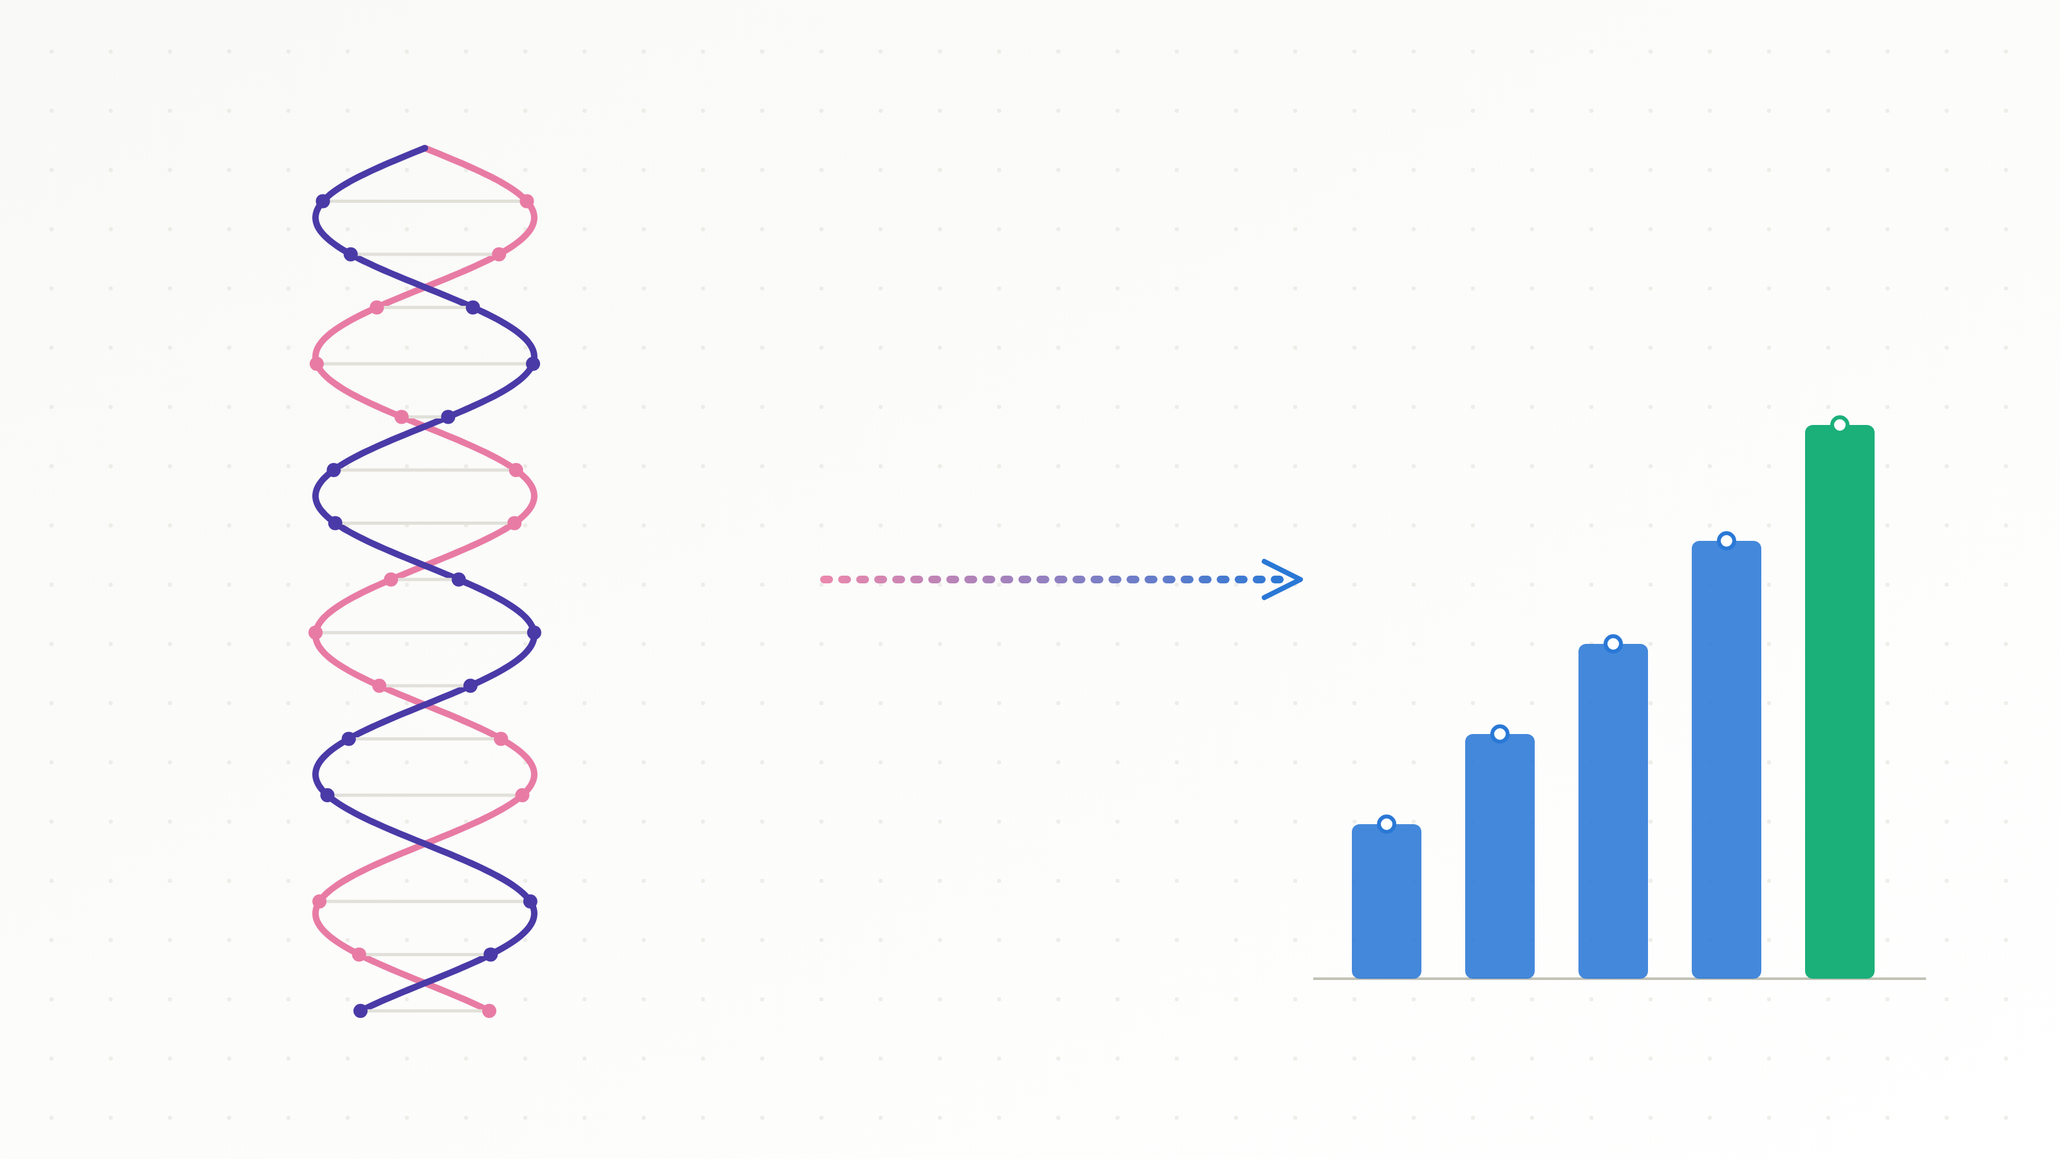
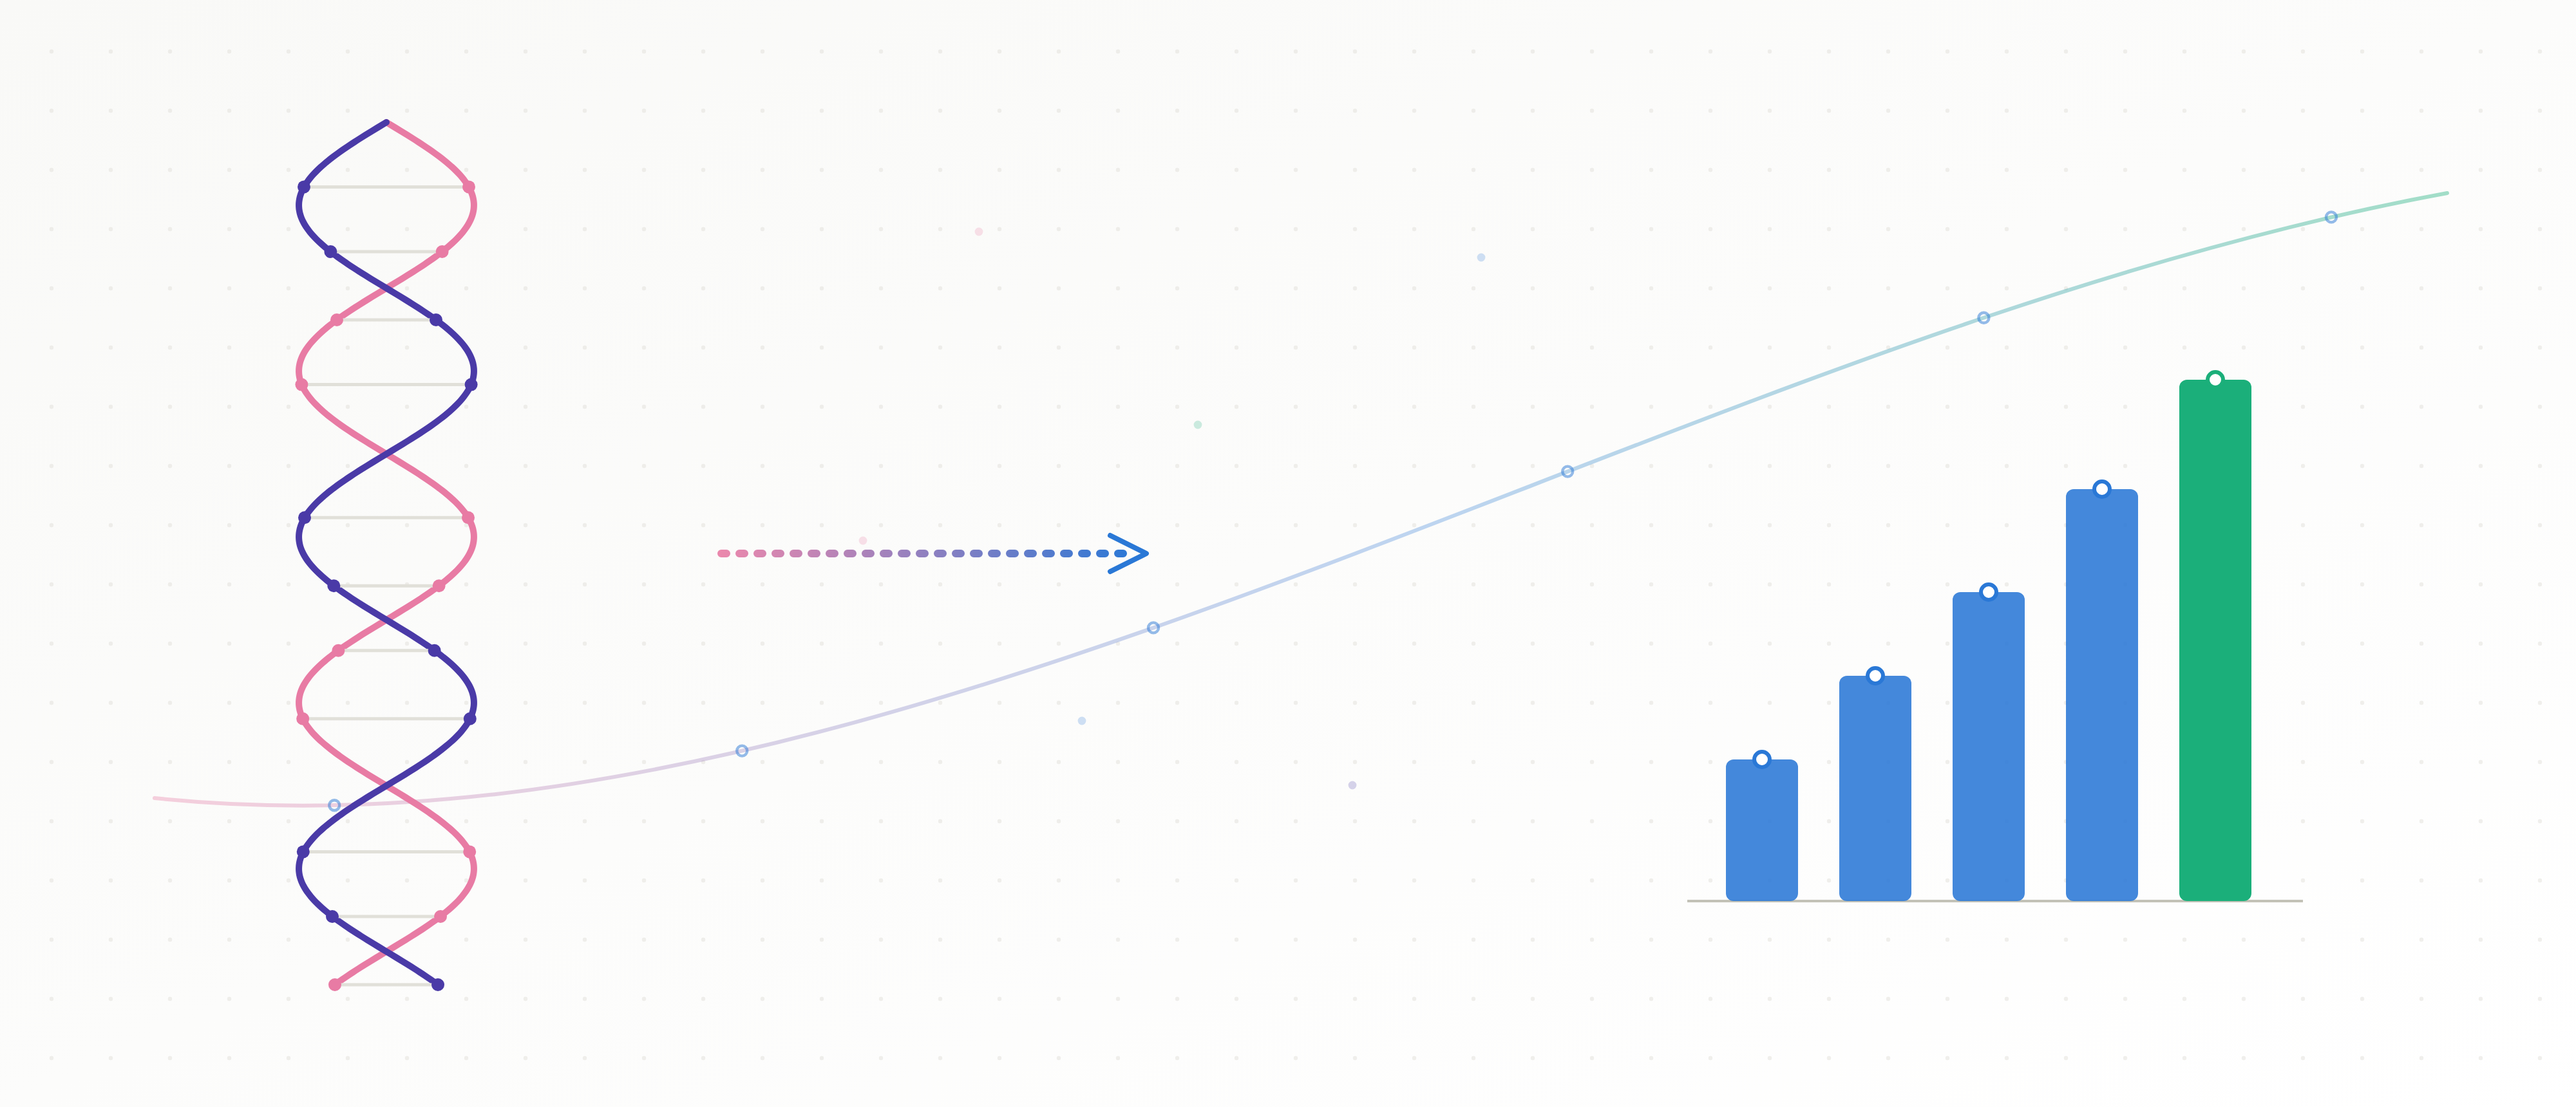
change cover picture

diff --git a/css/style.css b/css/style.css
@@ -276,7 +276,7 @@ pre.code-block {
 .post-hero h1 { font-size: 36px; margin-bottom: 14px; }
 
 .post-cover {
-  aspect-ratio: 21/9; border-radius: var(--radius-lg); background: var(--surface-2);
+  aspect-ratio: 21/9; max-height: 340px; border-radius: var(--radius-lg); background: var(--surface-2);
   border: 1px solid var(--border); overflow: hidden; margin: 32px 0;
   display: flex; align-items: center; justify-content: center; color: var(--text-muted); font-size: 13px;
 }
